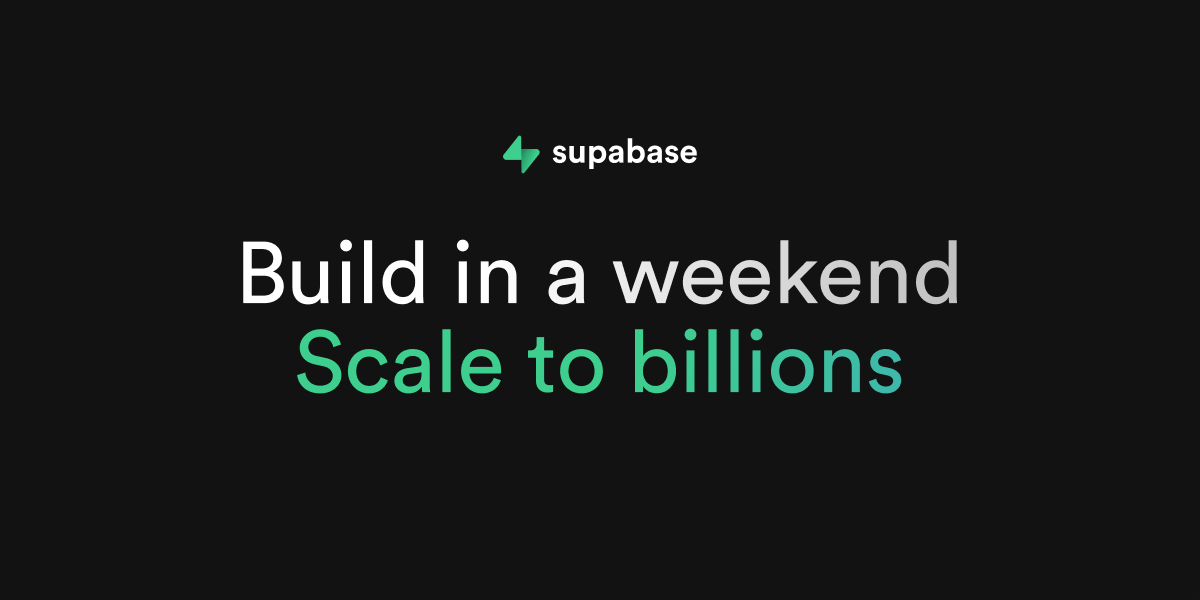
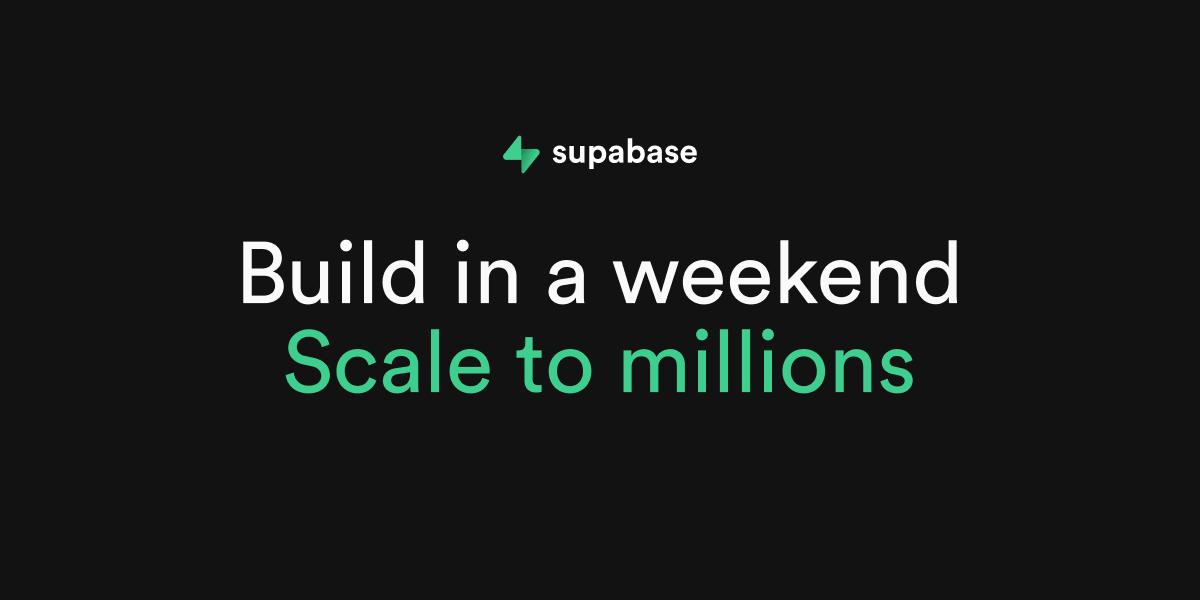
change messaging (#29537)
* revert to mil

* update sitemap

Changed region(s): [[0.2158, 0.54, 0.7708, 0.66], [0.5858, 0.39, 0.8017, 0.51]]

diff --git a/apps/www/components/EventCallout.tsx b/apps/www/components/EventCallout.tsx
@@ -9,7 +9,7 @@ interface Props {
   size?: 'tiny' | 'small' | 'large'
 }
 
-const EVENT_LINK = '/events/scale-to-billions-generative-ai-humata'
+const EVENT_LINK = '/events/scale-to-millions-generative-ai-humata'
 
 const EventCallout = ({ className, size = 'tiny', ...props }: PropsWithChildren<Props>) => {
   switch (size) {
@@ -25,7 +25,7 @@ const EventCallout = ({ className, size = 'tiny', ...props }: PropsWithChildren<
         >
           <span className="py-1 uppercase text-brand font-mono">Webinar</span>
           <span className="py-1 uppercase mx-3 px-3 border-x">21 Aug</span>
-          <span className="py-1">Scale to Billions: Generative AI/Humata</span>
+          <span className="py-1">Scale to Millions: Generative AI/Humata</span>
         </Link>
       )
     case 'small':
@@ -41,7 +41,7 @@ const EventCallout = ({ className, size = 'tiny', ...props }: PropsWithChildren<
           <VideoCameraIcon className="w-4 h-4 text-brand mr-2" />
           <span className="py-1 uppercase text-brand font-mono">Upcoming Webinar</span>
           <span className="py-1 uppercase mx-3 px-3 border-x">21 Aug</span>
-          <span className="py-1">Scale to Billions: Generative AI/Humata</span>
+          <span className="py-1">Scale to Millions: Generative AI/Humata</span>
           <ChevronRightIcon className="translate-x-0 transition-transform group-hover:translate-x-0.5 w-3 h-3 ml-1.5" />
         </Link>
       )
@@ -68,7 +68,7 @@ const EventCallout = ({ className, size = 'tiny', ...props }: PropsWithChildren<
                 <span className="mx-3 pl-3 border-l">21 Aug 2024 at 8PM PST</span>
               </div>
 
-              <span className="text-foreground text-3xl">Scale to Billions</span>
+              <span className="text-foreground text-3xl">Scale to Millions</span>
               <p>
                 Quickly and cost effectively build Generative AI applications that you can use to
                 chat with your company’s documents.

diff --git a/apps/www/components/Announcement/WebinarAnnouncement.tsx b/apps/www/components/Announcement/WebinarAnnouncement.tsx
@@ -5,7 +5,7 @@ const WebinarAnnouncement = () => {
   return (
     <div className="z-40 w-full flex flex-col gap-4 items-center justify-center -mt-4 md:-mt-8 mb-8 lg:mb-8">
       <AnnouncementBadge
-        url="/events/scale-to-billions-generative-ai-humata"
+        url="/events/scale-to-millions-generative-ai-humata"
         badge={
           <>
             Webinar <span className="hidden sm:inline ml-1">/ Aug 21</span>
@@ -13,7 +13,7 @@ const WebinarAnnouncement = () => {
         }
         announcement={
           <>
-            Scale to Billions: Generative AI
+            Scale to Millions: Generative AI
             <span className="hidden sm:inline">/Humata</span>
           </>
         }

diff --git a/apps/www/components/Hero/Hero.tsx b/apps/www/components/Hero/Hero.tsx
@@ -24,7 +24,7 @@ const Hero = () => {
                 <div className="flex flex-col items-center">
                   <h1 className="text-foreground text-4xl sm:text-5xl sm:leading-none lg:text-7xl">
                     <span className="block text-foreground">Build in a weekend</span>
-                    <span className="text-brand block md:ml-0">Scale to billions</span>
+                    <span className="text-brand block md:ml-0">Scale to millions</span>
                   </h1>
                   <p className="pt-2 text-foreground my-3 text-sm sm:mt-5 lg:mb-0 sm:text-base lg:text-lg">
                     Supabase is an open source Firebase alternative.{' '}

diff --git a/apps/www/components/CTABanner/index.tsx b/apps/www/components/CTABanner/index.tsx
@@ -18,7 +18,7 @@ const CTABanner = ({ darkerBg, className }: Props) => {
       <div className="col-span-12">
         <h2 className="h2">
           <span className="text-foreground-lighter">Build in a weekend,</span>
-          <span className="text-foreground block sm:inline"> scale to billions</span>
+          <span className="text-foreground block sm:inline"> scale to millions</span>
         </h2>
       </div>
       <div className="flex items-center justify-center gap-2 col-span-12 mt-4">

diff --git a/apps/www/pages/pricing.tsx b/apps/www/pages/pricing.tsx
@@ -81,7 +81,7 @@ export default function IndexPage() {
               <br className="block lg:hidden" /> designed to scale
             </h1>
             <p className="p text-lg leading-5">
-              Start building for free, collaborate with your team, then scale to billions of users
+              Start building for free, collaborate with your team, then scale to millions of users
             </p>
           </div>
         </div>

diff --git a/examples/auth/nextjs/components/tutorial/FetchDataSteps.tsx b/examples/auth/nextjs/components/tutorial/FetchDataSteps.tsx
@@ -90,7 +90,7 @@ export default function FetchDataSteps() {
         <Code code={client} />
       </Step>
 
-      <Step title="Build in a weekend and scale to billions!">
+      <Step title="Build in a weekend and scale to millions!">
         <p>You're ready to launch your product to the world! 🚀</p>
       </Step>
     </ol>

diff --git a/apps/www/lib/redirects.js b/apps/www/lib/redirects.js
@@ -1185,6 +1185,11 @@ module.exports = [
     source: '/blog/supabase-aquires-oriole',
     destination: '/blog/supabase-acquires-oriole',
   },
+  {
+    permanent: true,
+    source: '/events/scale-to-billions-generative-ai-humata',
+    destination: '/events/scale-to-millions-generative-ai-humata',
+  },
 
   //  DOCS
   {

diff --git a/apps/www/next-env.d.ts b/apps/www/next-env.d.ts
@@ -3,4 +3,4 @@
 /// <reference types="next/navigation-types/compat/navigation" />
 
 // NOTE: This file should not be edited
-// see https://nextjs.org/docs/app/building-your-application/configuring/typescript for more information.
+// see https://nextjs.org/docs/basic-features/typescript for more information.

diff --git a/apps/www/data/home/content.tsx b/apps/www/data/home/content.tsx
@@ -9,7 +9,7 @@ export default {
           Build in a weekend
         </span>
         <span className="text-transparent bg-clip-text bg-gradient-to-br from-[#3ECF8E] via-[#3ECF8E] to-[#3ecfb2] block md:ml-0">
-          Scale to billions
+          Scale to millions
         </span>
       </>
     ),

diff --git a/apps/www/data/products/vector/pageData.tsx b/apps/www/data/products/vector/pageData.tsx
@@ -235,7 +235,7 @@ docs.query(
       <>
         <span className="heading-gradient">Powerful Features</span>
         <br />
-        <span className="text-brand">Scale to billions</span>
+        <span className="text-brand">Scale to millions</span>
       </>
     ),
     paragraph:
